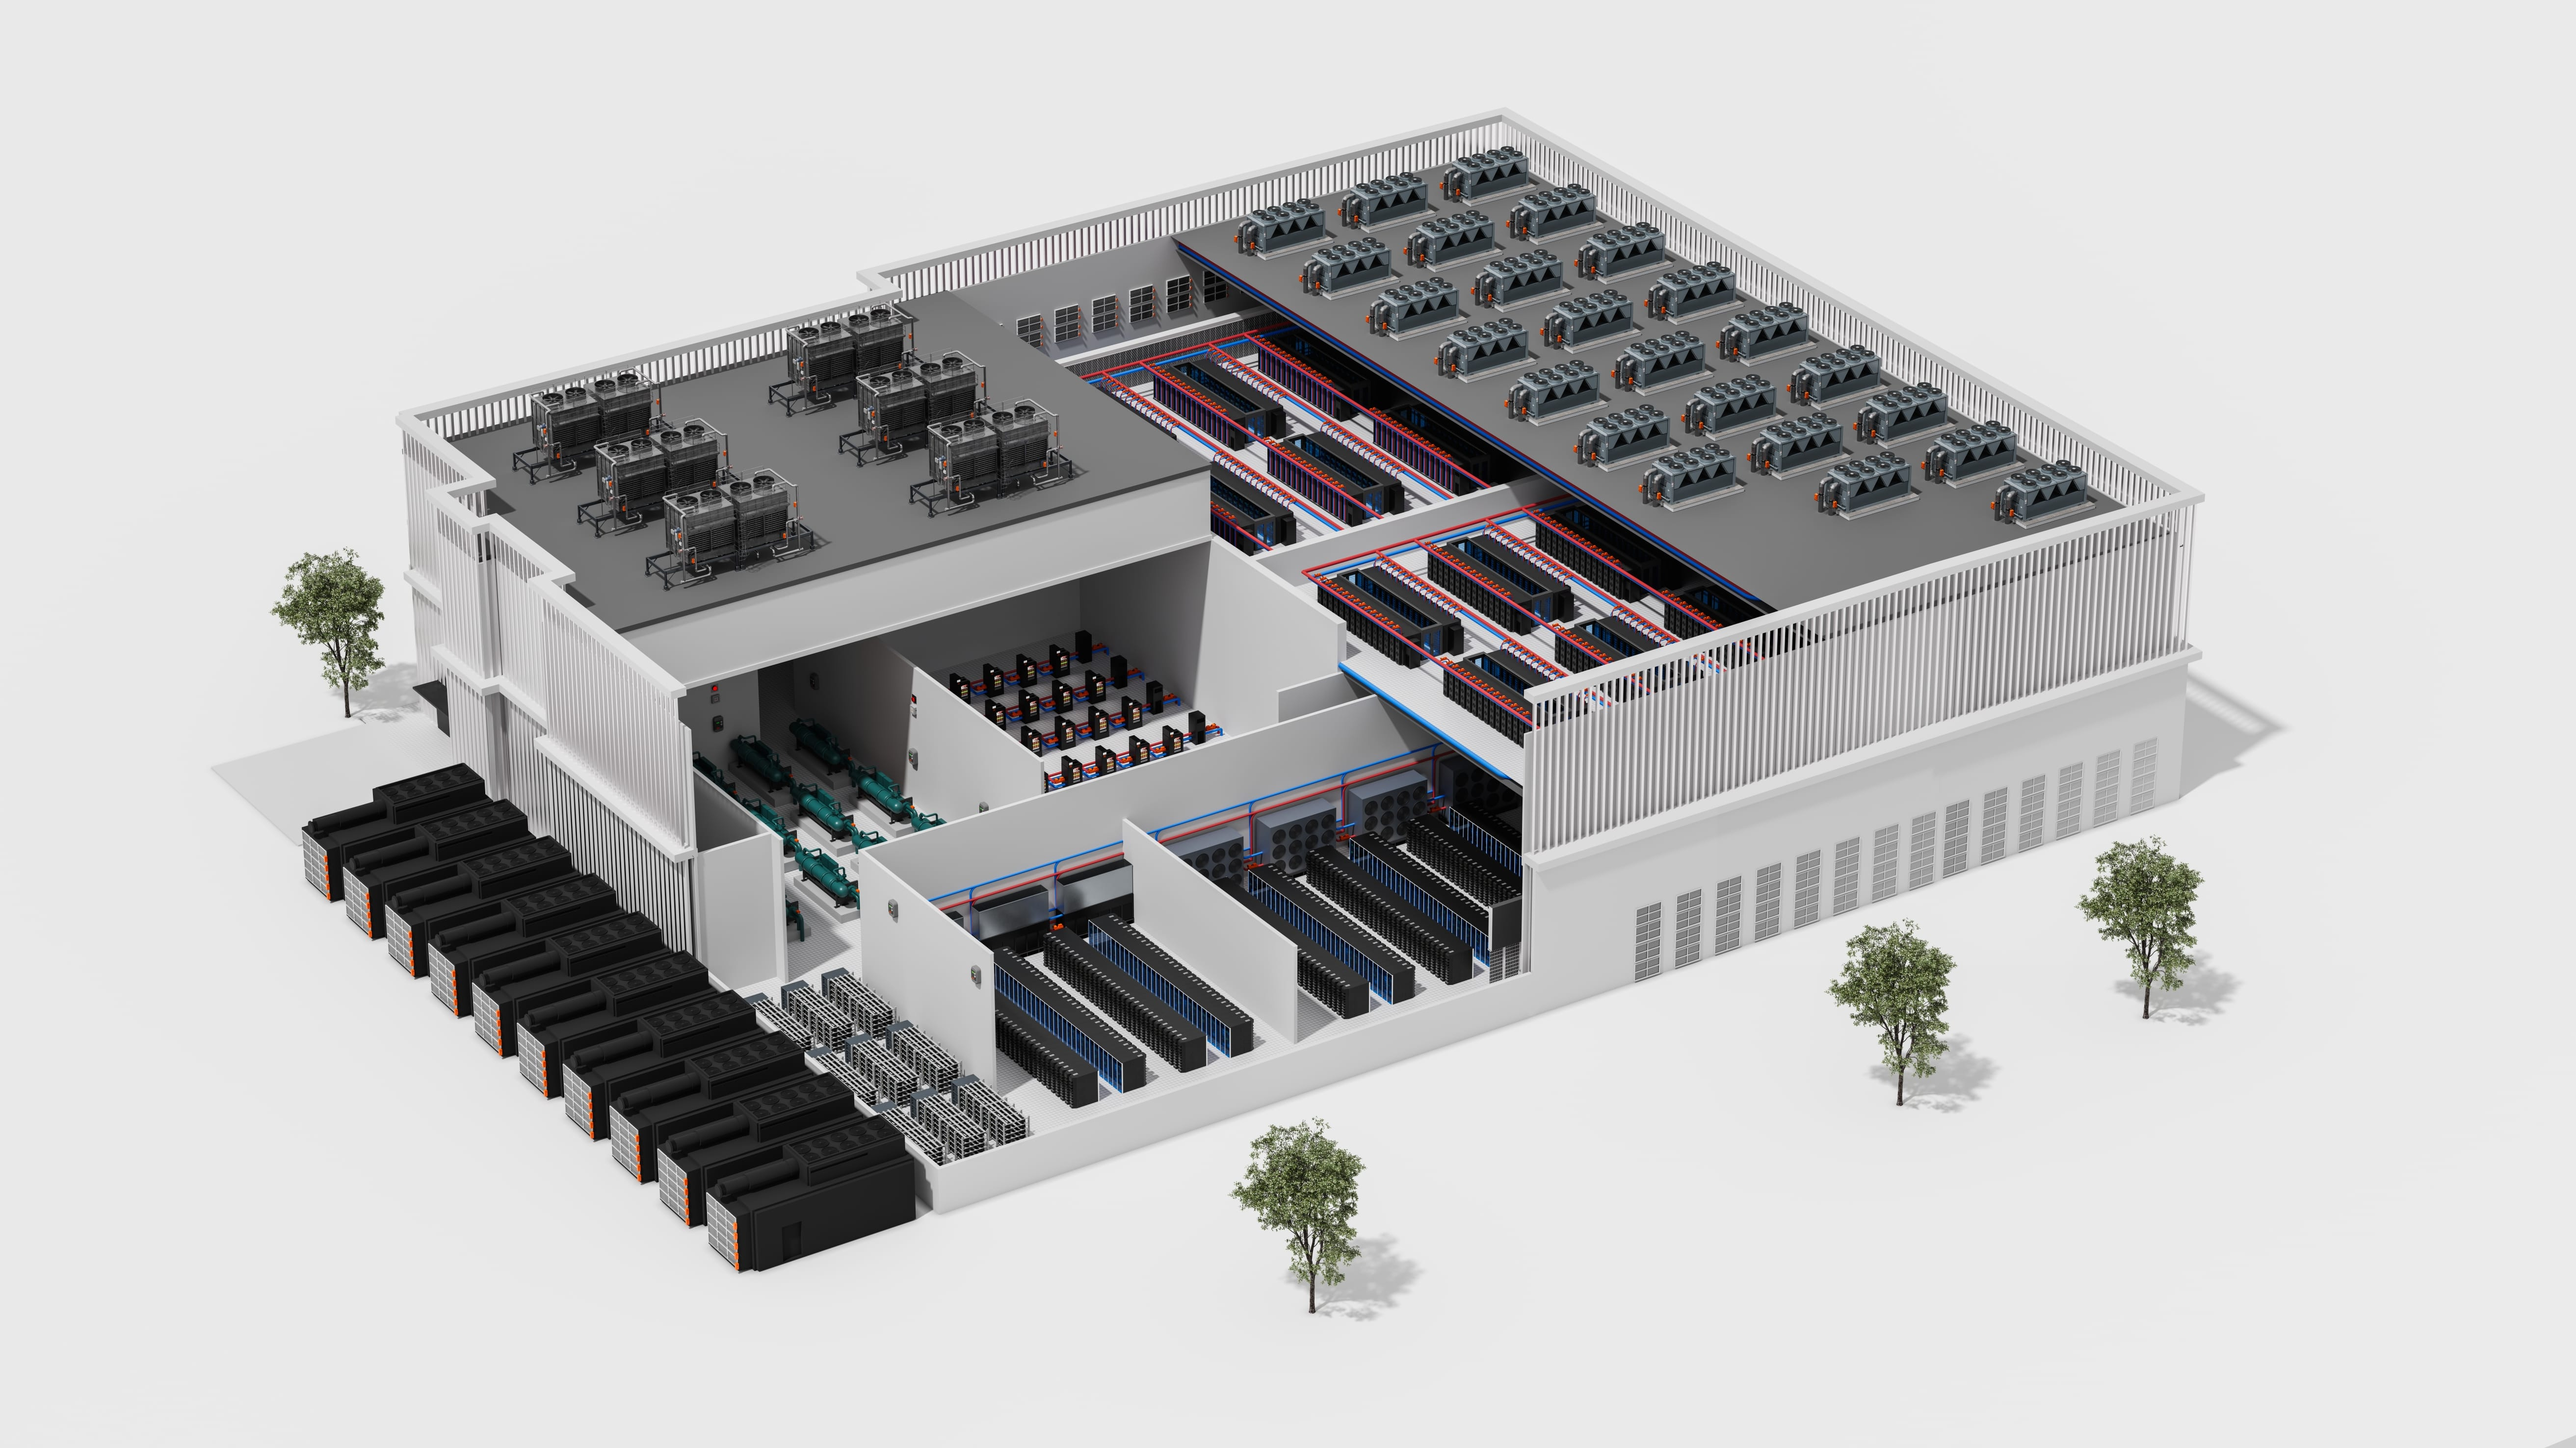
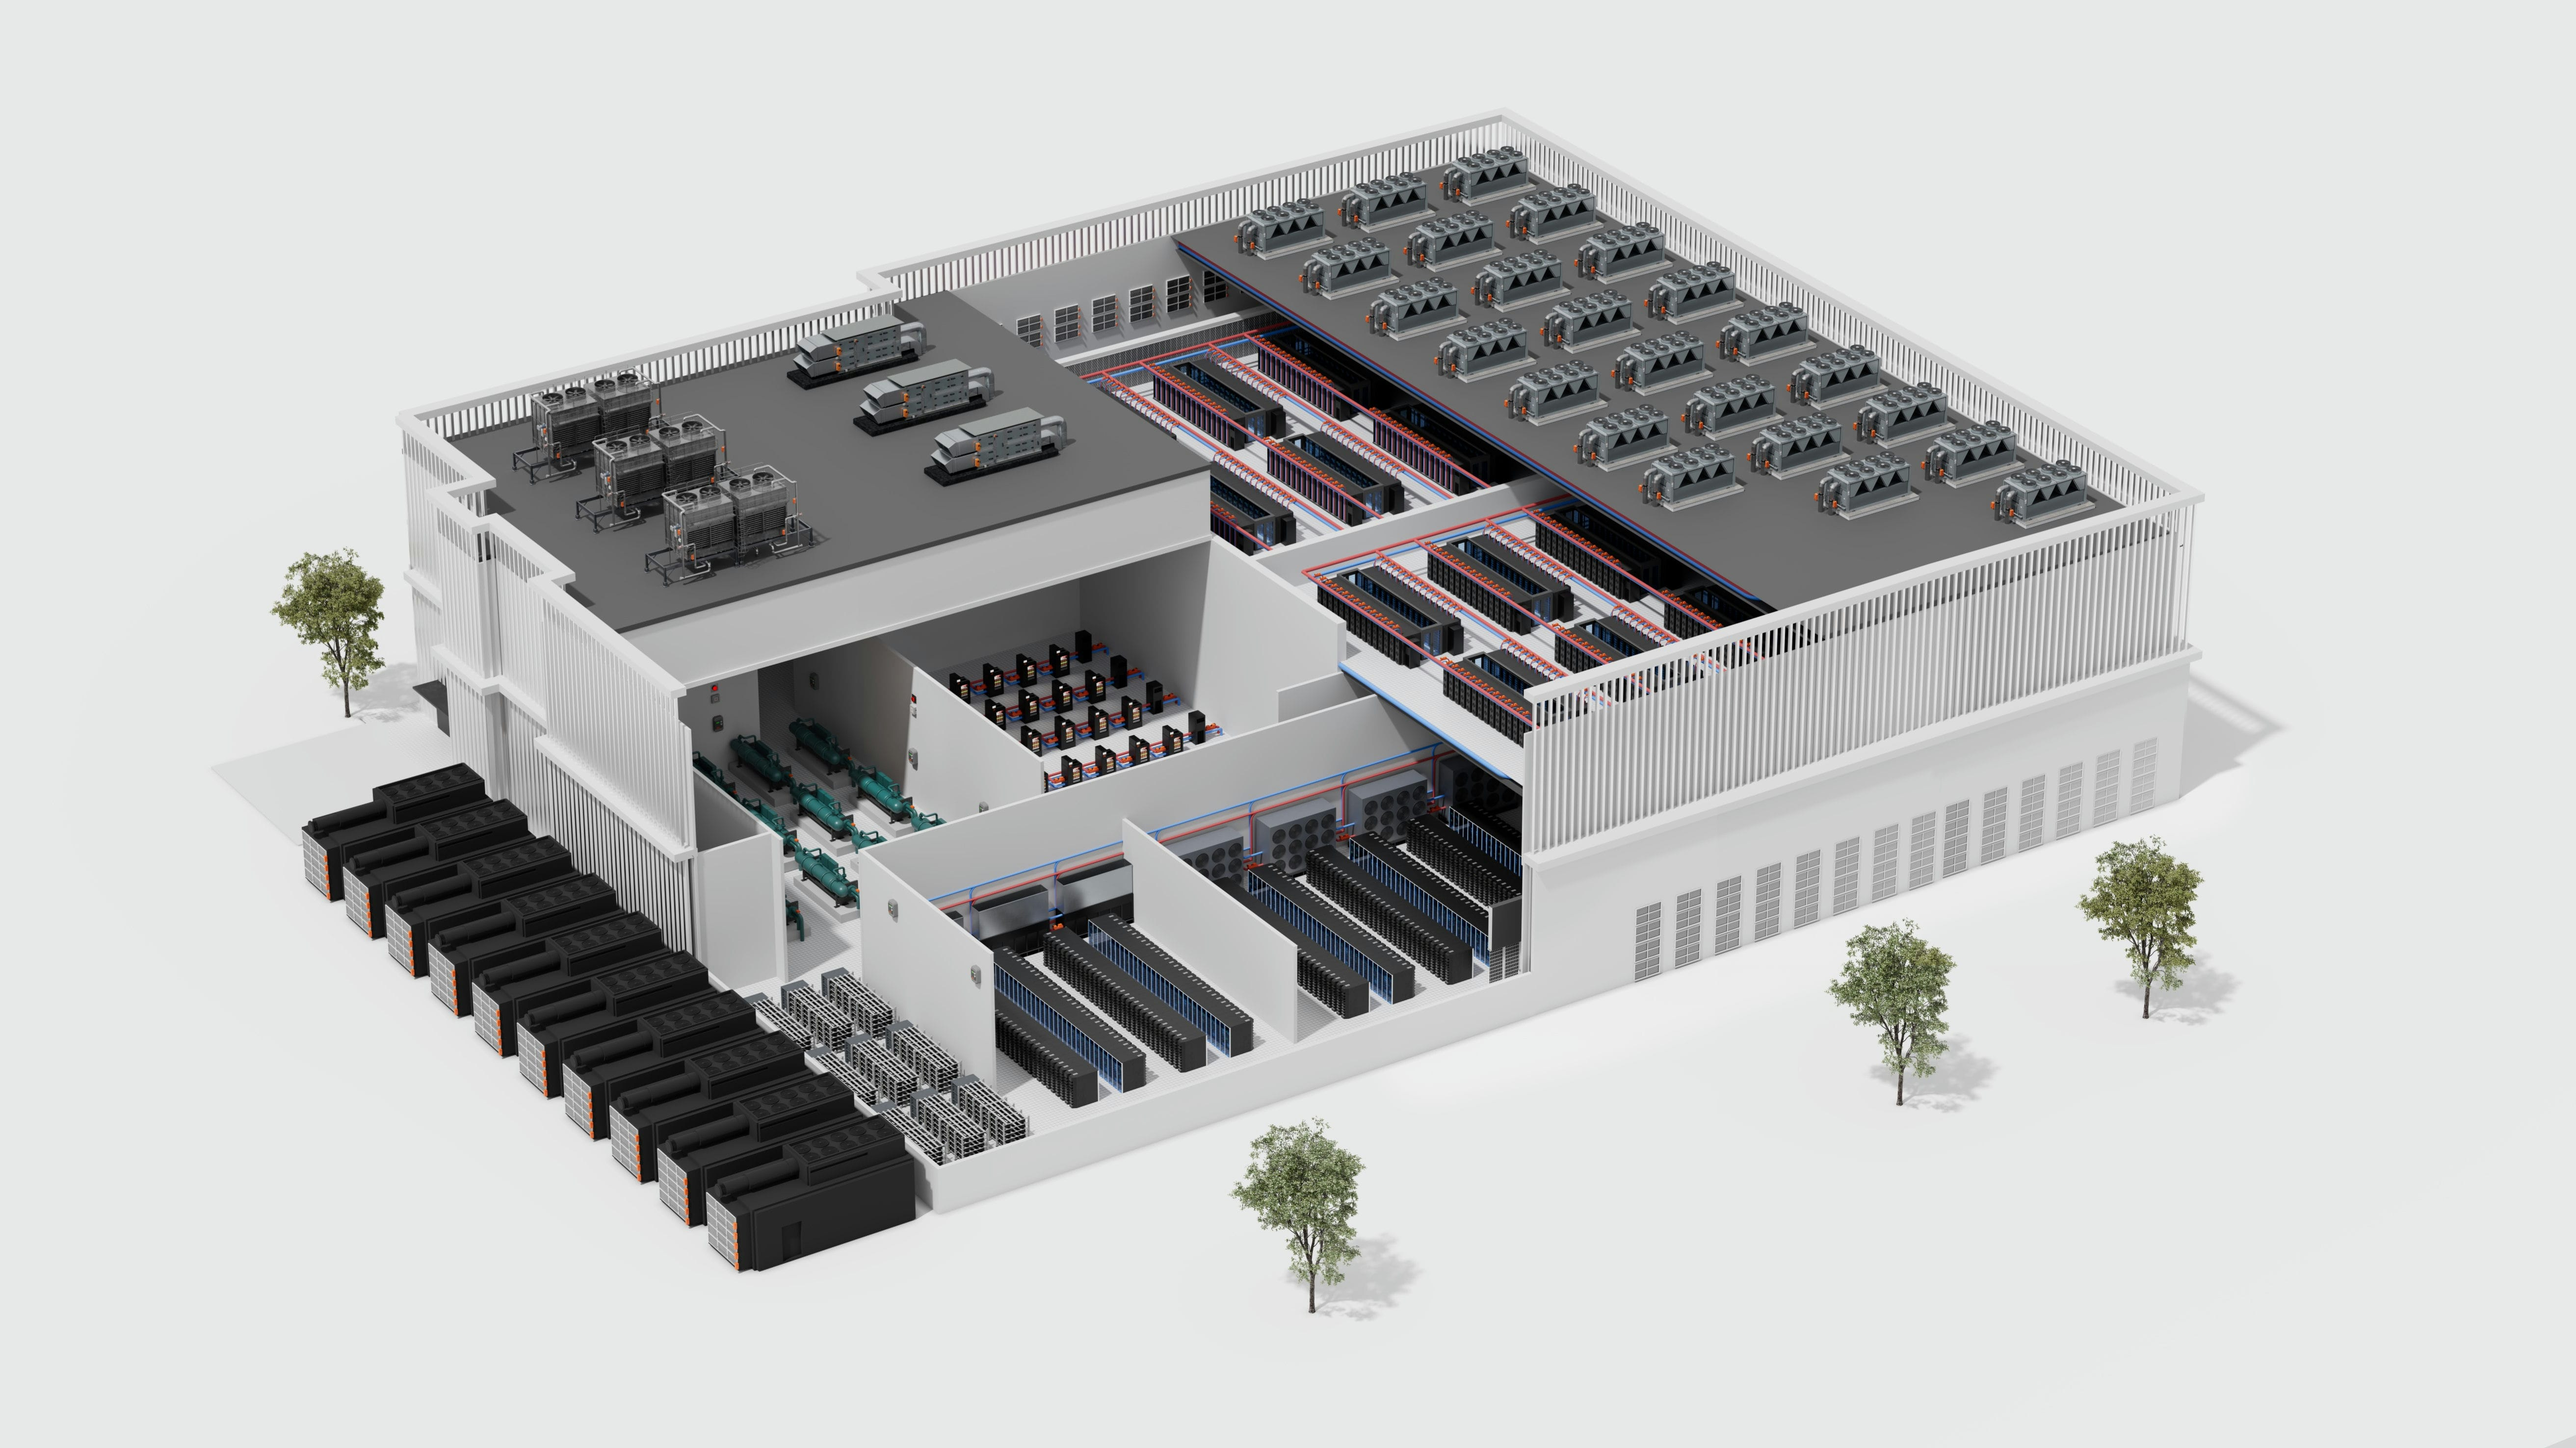
AHU image update and png to jpg compression and cleanup

diff --git a/index.html b/index.html
@@ -175,7 +175,7 @@
 
     <dialog id="dialog-cdu">
       <div class="inner">
-        <img src="/assets/components/cdu.png" alt="Cooling Distribution Units" class="dialog-image" />
+        <img src="/assets/components/cdu.jpg" alt="Cooling Distribution Units" class="dialog-image" />
         <h2>Cooling Distribution Units (CDUs)</h2>
         <p>
           CDUs provide chilled water or water glycol mixes for heat generating components such as servers. Belimo offers a comprehensive range of EVs, CCVs, and EPIVs that are ideally suited for CDUs. These valves provide precise flow control and are easily adjustable as your cooling needs grow.
@@ -210,7 +210,7 @@
 
     <dialog id="dialog-two-phase-immersion">
       <div class="inner">
-        <img src="/assets/components/two-phase-cooling.png" alt="Two Phase Immersion Cooling" class="dialog-image" />
+        <img src="/assets/components/two-phase-cooling.jpg" alt="Two Phase Immersion Cooling" class="dialog-image" />
         <h2>Two-Phase Immersion Cooling</h2>
         <p>
           Two-phase immersion cooling units require precise water flow to ensure the effective condensation of dielectric fluid. Belimo EPIVs maintain precise flow to the coil even in the presence of system pressure fluctuations. The Belimo Energy Valve monitors the supply and return water temperatures, calculates thermal energy, and provides valuable insights to track cooling performance and identify inefficiencies.
@@ -236,7 +236,7 @@
 
     <dialog id="dialog-generators">
       <div class="inner">
-        <img src="/assets/components/generators.png" alt="Generators" class="dialog-image" />
+        <img src="/assets/components/generators.jpg" alt="Generators" class="dialog-image" />
         <h2>Generators</h2>
         <p>
           Generators ensure servers still have power in the event of a power
@@ -252,7 +252,7 @@
 
     <dialog id="dialog-central-plant">
       <div class="inner">
-        <img src="/assets/components/central-plant.png" alt="Central Plant" class="dialog-image" />
+        <img src="/assets/components/central-plant.jpg" alt="Central Plant" class="dialog-image" />
         <h2>Central Plant</h2>
         <p>
           Central plants provide chilled water to the entire data center. Given the huge
